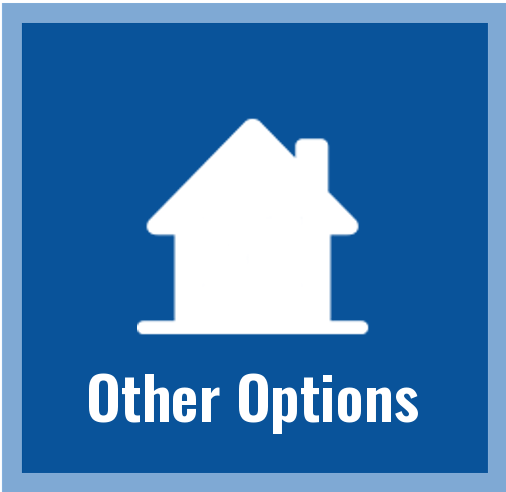
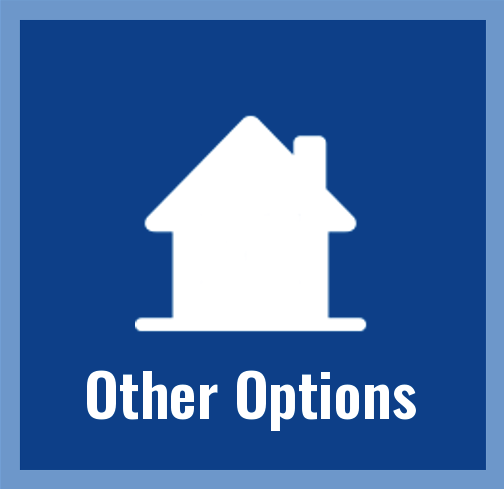
edited and moved buttons

diff --git a/app/assets/stylesheets/mbr-style.self-ad2355dd360c8f24d167978a5ce7870881f.css b/app/assets/stylesheets/mbr-style.self-ad2355dd360c8f24d167978a5ce7870881f.css
@@ -330,17 +330,17 @@ to{-webkit-transform:translateY(0);transform:translateY(0);}
 .mbr-header{margin-top:-20px;padding:0;position:relative;text-align:left;top:10px;color:#09539a;}
 .mbr-header--std-padding{padding-bottom:41px;}
 .mbr-header--center{text-align:center;}
-.mbr-header__text{display:block;font-size:25px;font-weight:bold;letter-spacing:6px;line-height:1.5em;margin:0;}
+.mbr-header__text{display:block;font-size:25px;font-weight:bold;line-height:1.5em;margin:0;}
 .mbr-header__subtext{color:#777;font-size:14px;font-style:italic;letter-spacing:1px;margin:8px 0 7px 0;}
 .mbr-header--inline{margin-top:0;padding:41px 0 28px 0;top:0;}
-.mbr-header--inline .mbr-header__text{letter-spacing:4px;line-height:1em;margin:15px 0 0 0;}
+.mbr-header--inline .mbr-header__text{line-height:1em;margin:15px 0 0 0;}
 @media (max-width:767px){.mbr-header--inline{padding:47px 0 38px 0;}
 .mbr-header--inline .mbr-header__text{display:block;margin:0 0 38px 0;}
 .mbr-header--auto-align .mbr-header__text,
 .mbr-header--auto-align .mbr-header__subtext{left:0;text-align:center !important;}
 }
 @media (min-width:768px){.mbr-header--reduce{margin-top:-5px;top:2px;}
-.mbr-header--reduce .mbr-header__text{font-size:16px;letter-spacing:1px;line-height:1.1em;padding-top:0.4em;margin-top:-0.4em;}
+.mbr-header--reduce .mbr-header__text{font-size:16px;line-height:1.1em;padding-top:0.4em;margin-top:-0.4em;}
 }
 .mbr-social-icons__icon{-webkit-transition:all 0.2s ease-in-out 0s;-o-transition:all 0.2s ease-in-out 0s;transition:all 0.2s ease-in-out 0s;color:#fff;cursor:pointer;display:inline-block;font-size:29px;height:56px;line-height:61px;margin:0 10px 13px 0;position:relative;text-align:center;width:56px;}
 .mbr-social-icons__icon:hover{color:#fff;}
@@ -495,6 +495,10 @@ to{-webkit-transform:translateY(0);transform:translateY(0);}
 }
 
 #video1-26 {
-  background-color: #237EC2;
+  background-color: #fff;
+}
+
+#features1-12 {
+  background-color: ##005797;
 }
 

diff --git a/app/assets/stylesheets/mbr-style.css b/app/assets/stylesheets/mbr-style.css
@@ -1086,7 +1086,7 @@ background-color: #237EC2;
   display: block;
   font-size: 25px;
   font-weight: bold;
-  letter-spacing: 6px;
+/*  letter-spacing: 6px;*/
   line-height: 1.5em;
   margin: 0;
 }
